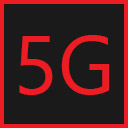
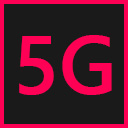
Updated colour scheme to have better contrast

Changed region(s): [[0.4688, 0.25, 0.875, 0.75], [0.0, 0.0, 1.0, 1.0], [0.125, 0.2812, 0.4375, 0.75]]

diff --git a/style.css b/style.css
@@ -15,7 +15,7 @@ body{
 select,button {
 	background:#1a1a1a;
 	color:#fff;
-	border:1.5px solid #ed1c24;
+	border:1.5px solid #ff0055;
 	font-size:1.2em;
 	line-height:1.2em;
 	padding:5px;
@@ -30,7 +30,7 @@ input{
 	appearance:textfield;
 	background:#1a1a1a;
 	color:#fff;
-	border:1.5px solid #ed1c24;
+	border:1.5px solid #ff0055;
 	font-size:1.2em;
 	line-height:1.2em;
 	padding:5px;
@@ -77,7 +77,7 @@ h3 {
 	float:left;
 	width:calc(100% / 7);
 	height:100%;
-	border-bottom:.1em solid #ed1c24;
+	border-bottom:.1em solid #ff0055;
 }
 .tdd_header {
 	width:100%;
@@ -87,7 +87,7 @@ h3 {
 .tdd_title {
 	width:100%;
 	float:left;
-	border-bottom:.05em solid #ed1c24;
+	border-bottom:.05em solid #ff0055;
 }
 .tdd_predefined {
 	display:none;
@@ -104,7 +104,7 @@ h3 {
 	height:4em;
 	line-height:4em;
 	background-color:#000;
-	border-bottom:#ed1c24 2px solid;
+	border-bottom:#ff0055 2px solid;
 }
 #speeds{
 	text-align:center;
@@ -271,7 +271,7 @@ h3 {
 		margin:0.5rem 0;
 	}
 	#add_carrier {
-		background-color:#ed1c24;
+		background-color:#ff0055;
 	}
 }
 @media screen and (max-width:410px){
